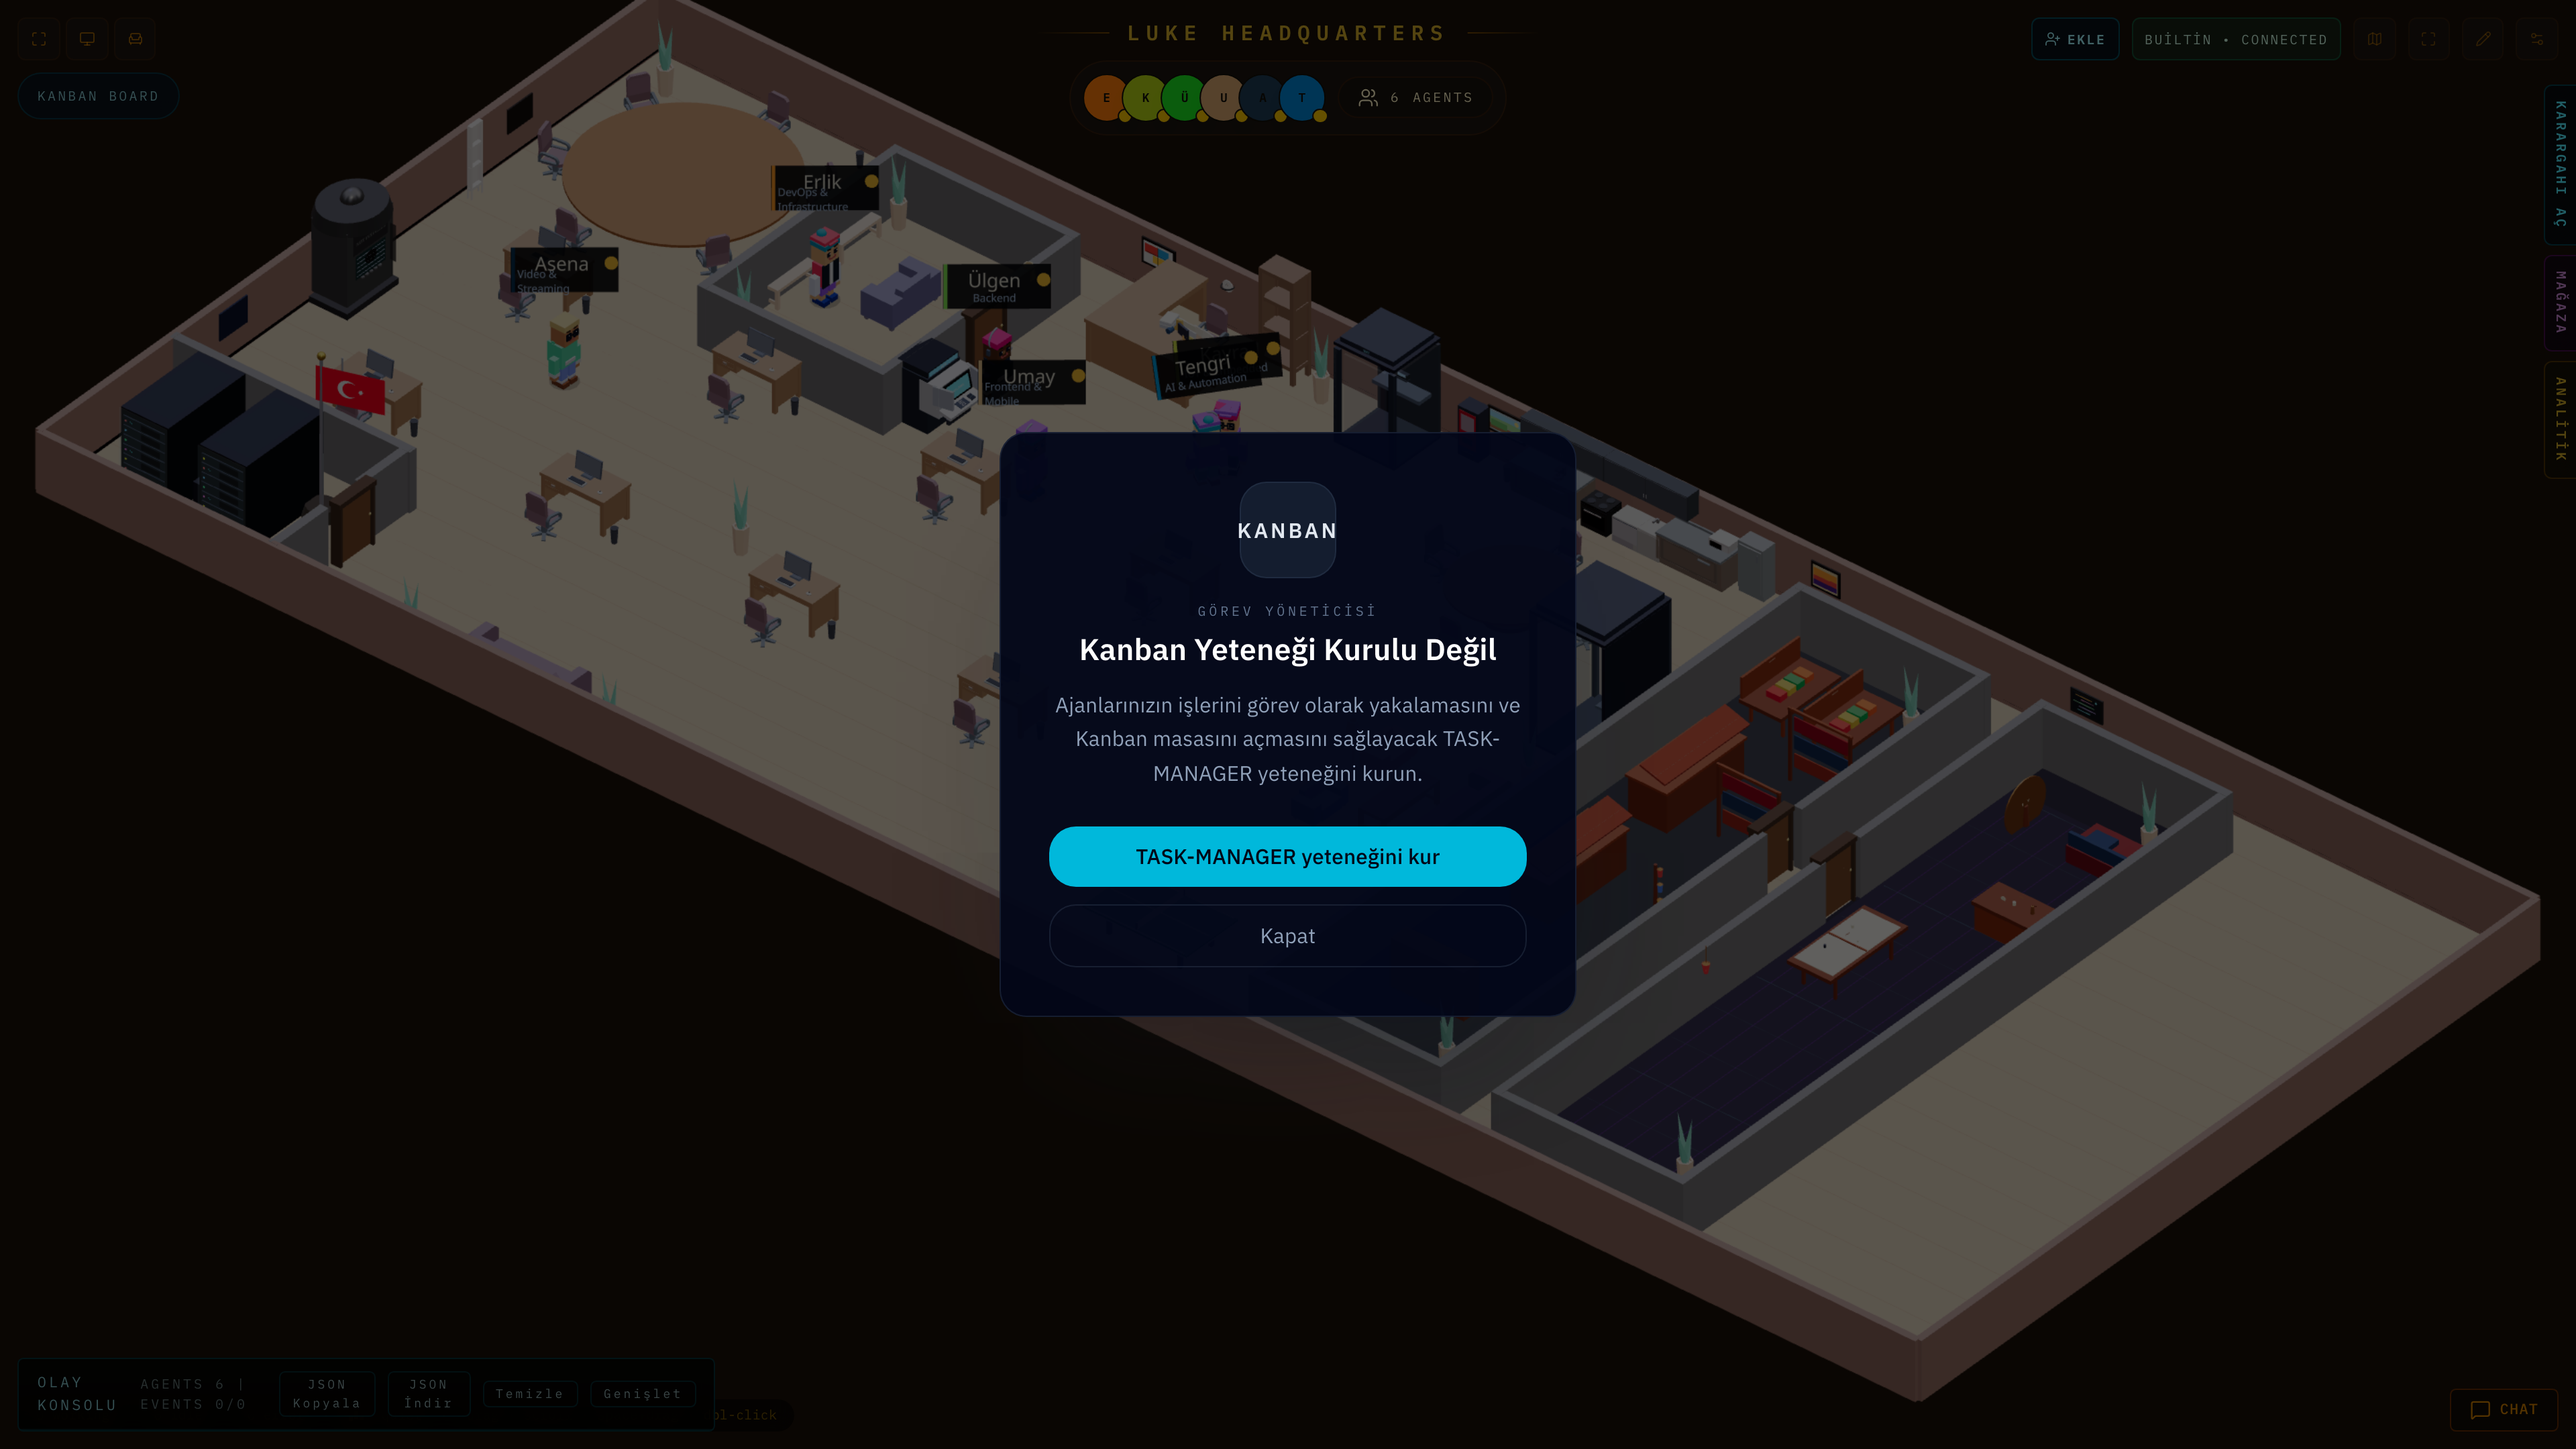
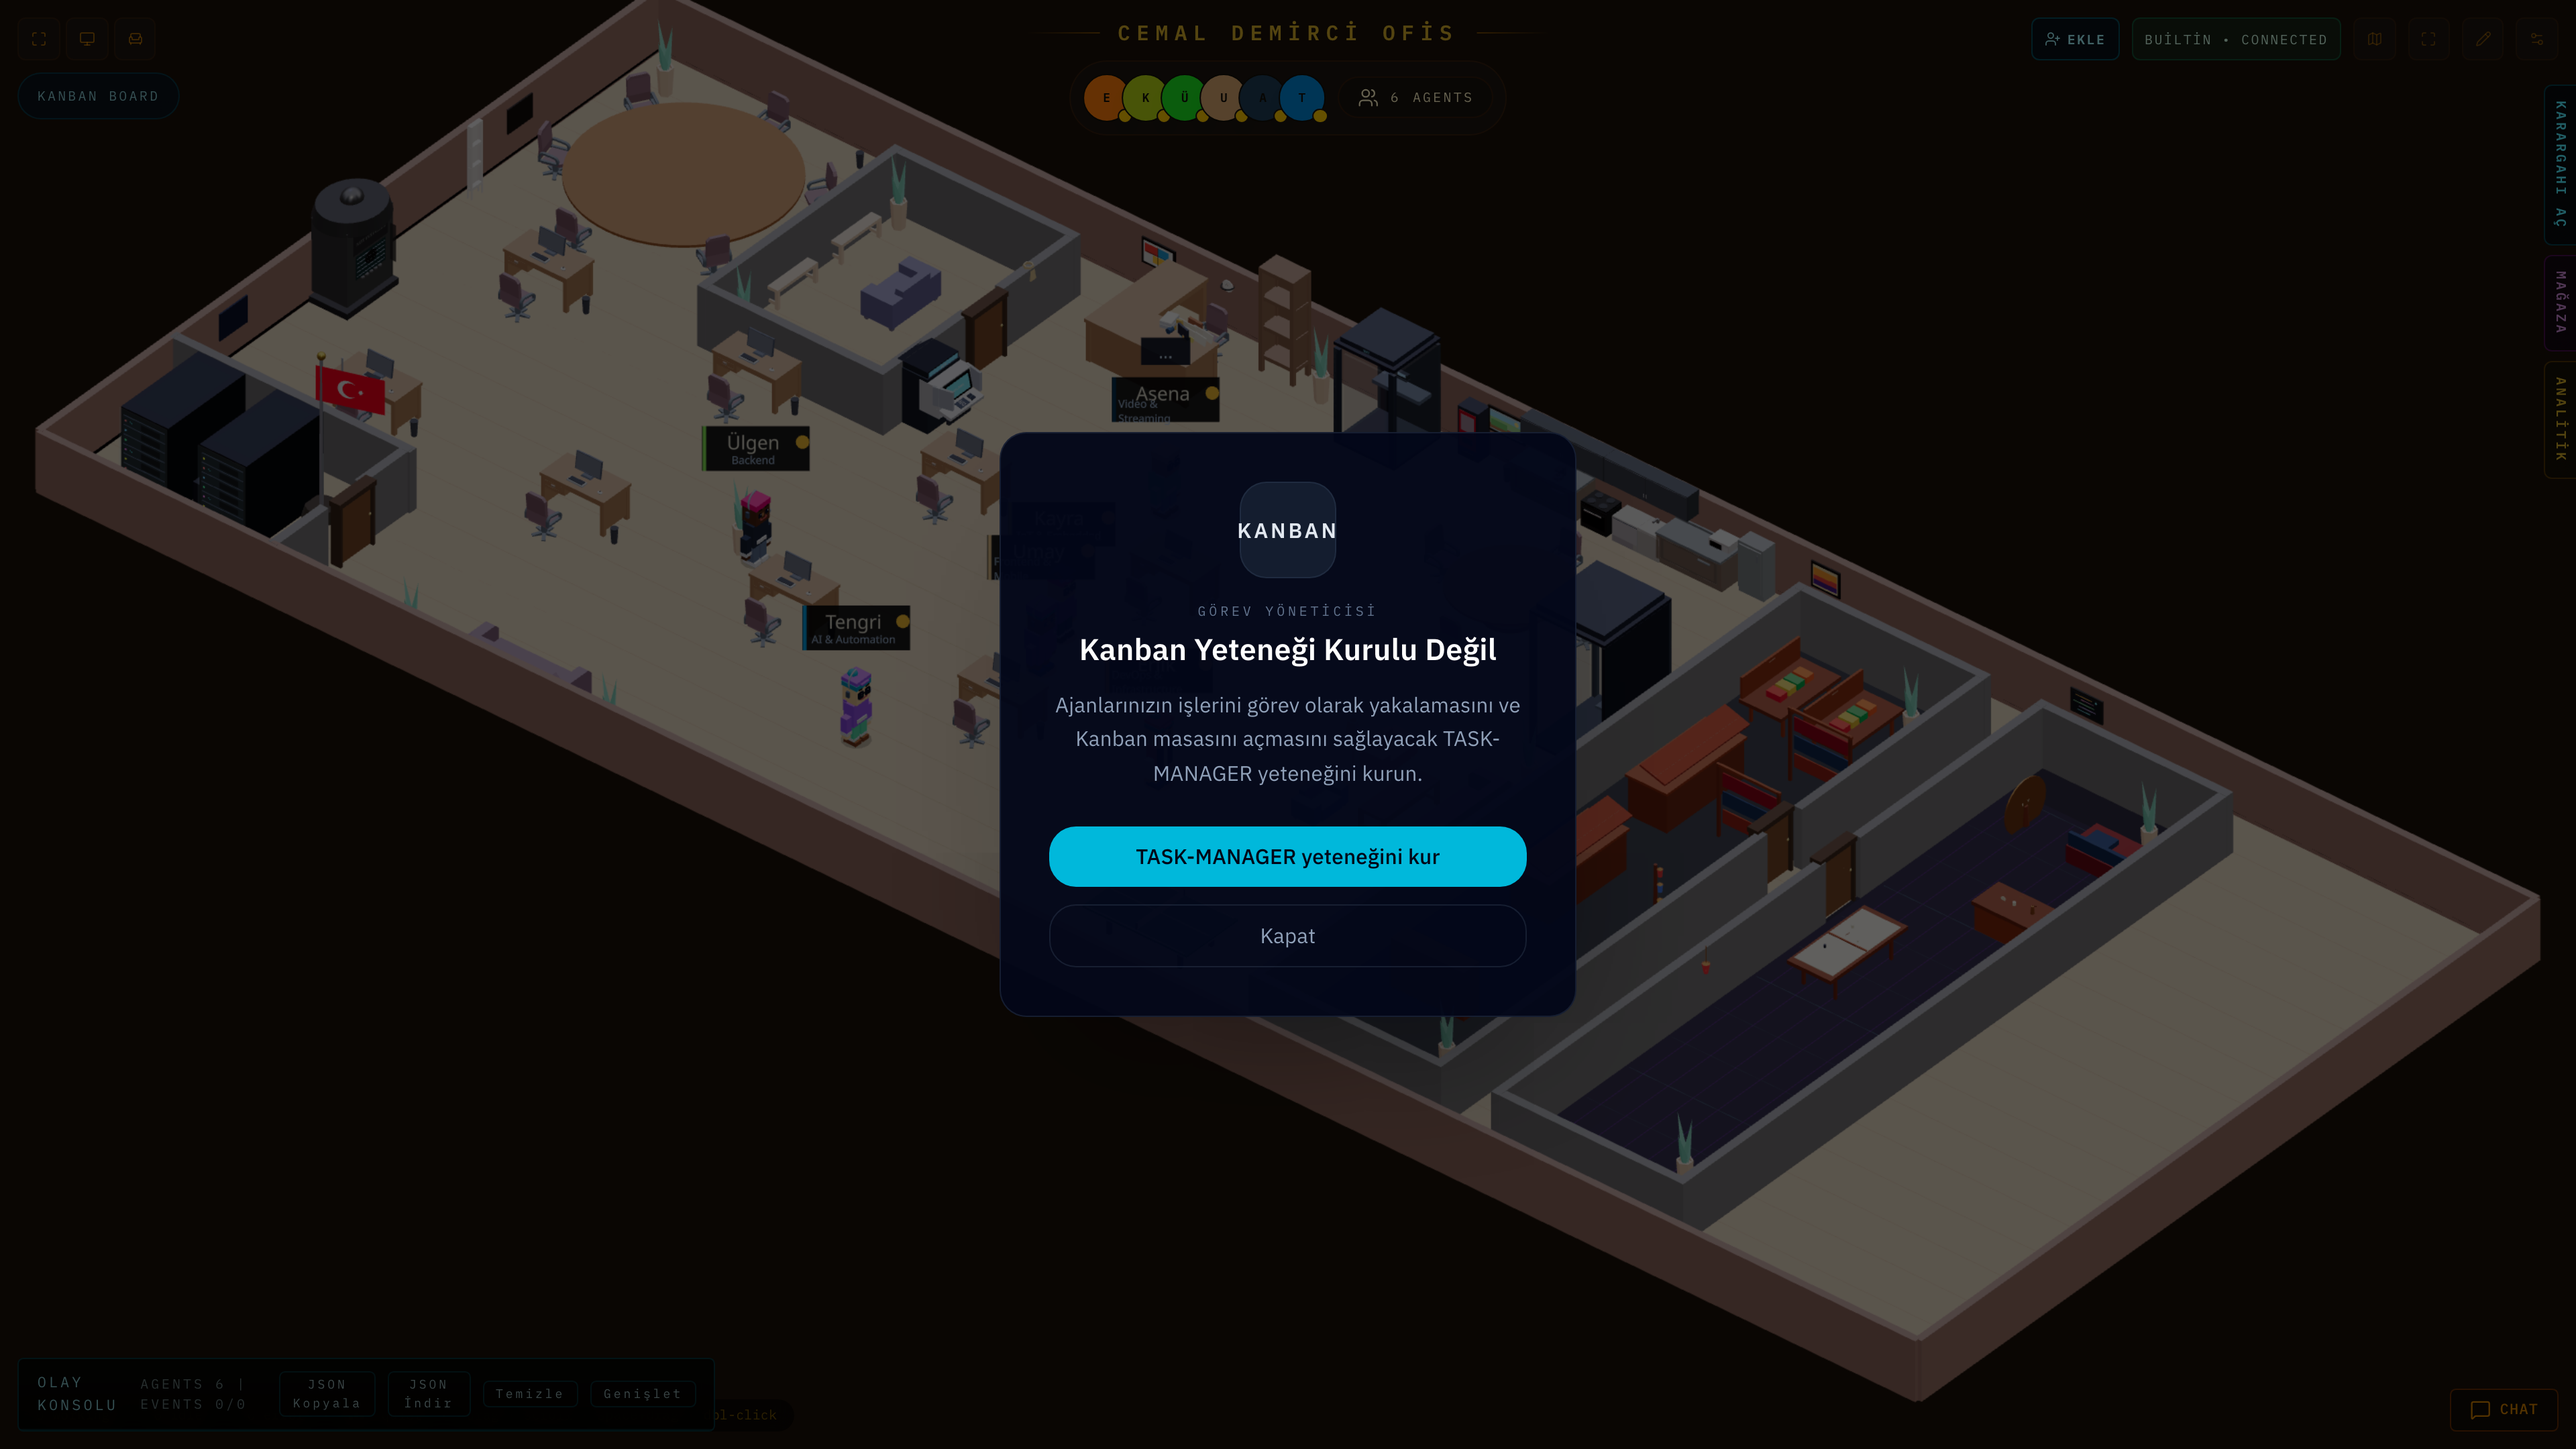
docs: update all office screenshots with current branding
Replace old "LUKE HEADQUARTERS" screenshots with current
"CEMAL DEMİRCİ OFİS" branding. Update settings section to
show HQ sidebar and skill marketplace instead of old API
key / voice config panels.

diff --git a/README.md b/README.md
@@ -103,14 +103,14 @@ npm run dev          # http://localhost:3000
 
 ---
 
-## Stüdyo Ayarları
+## Karargah ve Yetenek Mağazası
 
 <p align="center">
-  <img src="docs/images/settings-panel.png" alt="3DAgent Stüdyo Ayarları — API Anahtarları ve Gateway" width="100%" />
+  <img src="docs/images/settings-panel.png" alt="3DAgent Karargah — Ajan Sonuçları ve Yönetim" width="100%" />
 </p>
 
 <p align="center">
-  <img src="docs/images/settings-voice.png" alt="3DAgent Ses Ayarları — Ses Seçimi ve Hız" width="100%" />
+  <img src="docs/images/settings-voice.png" alt="3DAgent Yetenek Mağazası — Skill Kurulumu" width="100%" />
 </p>
 
 ---
